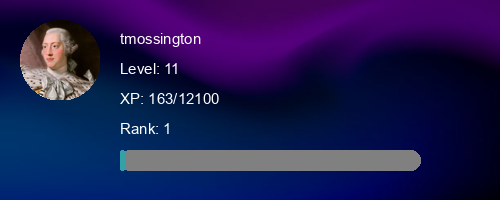
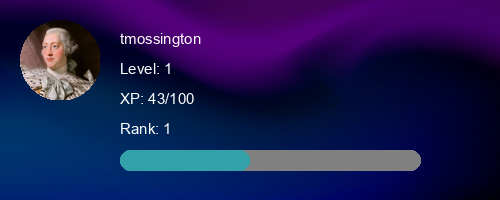
Updated xp amount

Changed region(s): [[0.24, 0.75, 0.51, 0.87], [0.3, 0.45, 0.45, 0.54], [0.33, 0.3, 0.36, 0.36]]

diff --git a/LevelingSystem.py b/LevelingSystem.py
@@ -128,7 +128,7 @@ class LevelingSystem(commands.Cog):
             self.connection.commit()
 
         # Give user random XP between 10 and 50
-        xp += random.randint(10, 50)
+        xp += random.randint(25, 75)
 
         # Update the database with new XP
         self.cursor.execute("UPDATE user_levels SET xp = %s WHERE user_id = %s", (xp, user_id))
@@ -218,9 +218,20 @@ class LevelingSystem(commands.Cog):
         else:
             self.cursor.execute('SELECT * FROM user_levels ORDER BY level DESC, xp DESC LIMIT %s', (int(limit),))
         rows = self.cursor.fetchall()
+        
+
+        embed = discord.Embed(
+        title=f"Levels Leaderboard",
+        color=discord.Color.dark_blue()
+            )
+        
         for row in rows:
             user_id, username, level, xp = row
-            await ctx.send(f"Username: **{username}**, Level: {level}")
+            message = (f"Username: **{username}**, Level: {level}")
+        
+            embed.description = embed.description + "\n\n" + message if embed.description else message
+
+        await ctx.send(embed=embed)
 
     
     # Reset user levels
@@ -335,7 +346,7 @@ class LevelingSystem(commands.Cog):
         
         image_file = 'default.jpg'
         # Load background image
-        background = Image.open(f'/Users/azureuser/Servo-Discord-Bot/profile_images/{image_file}')
+        background = Image.open(f'/home/azureuser/Servo-Discord-Bot/profile_images/{image_file}')
         background = background.resize((500, 200))
 
         filter = Image.new('RGBA', background.size, (0, 0, 0, 128))
